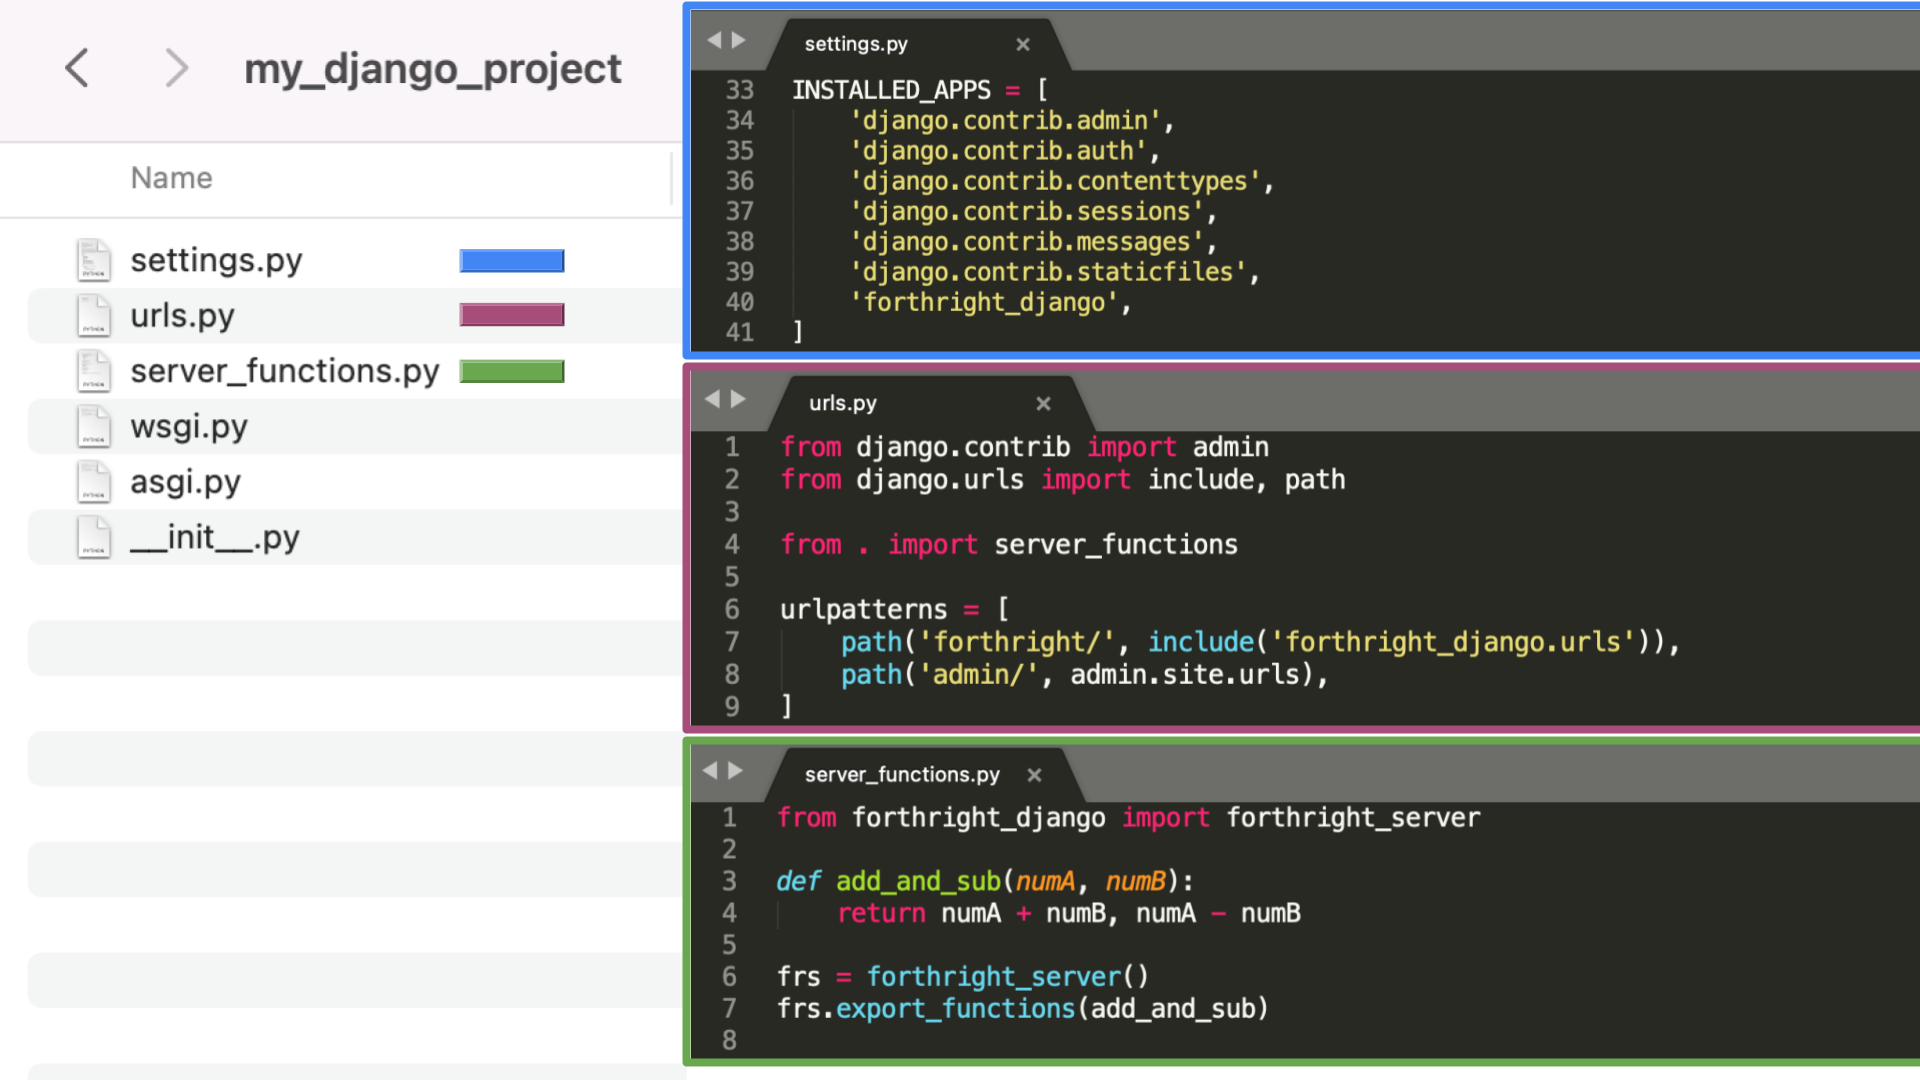
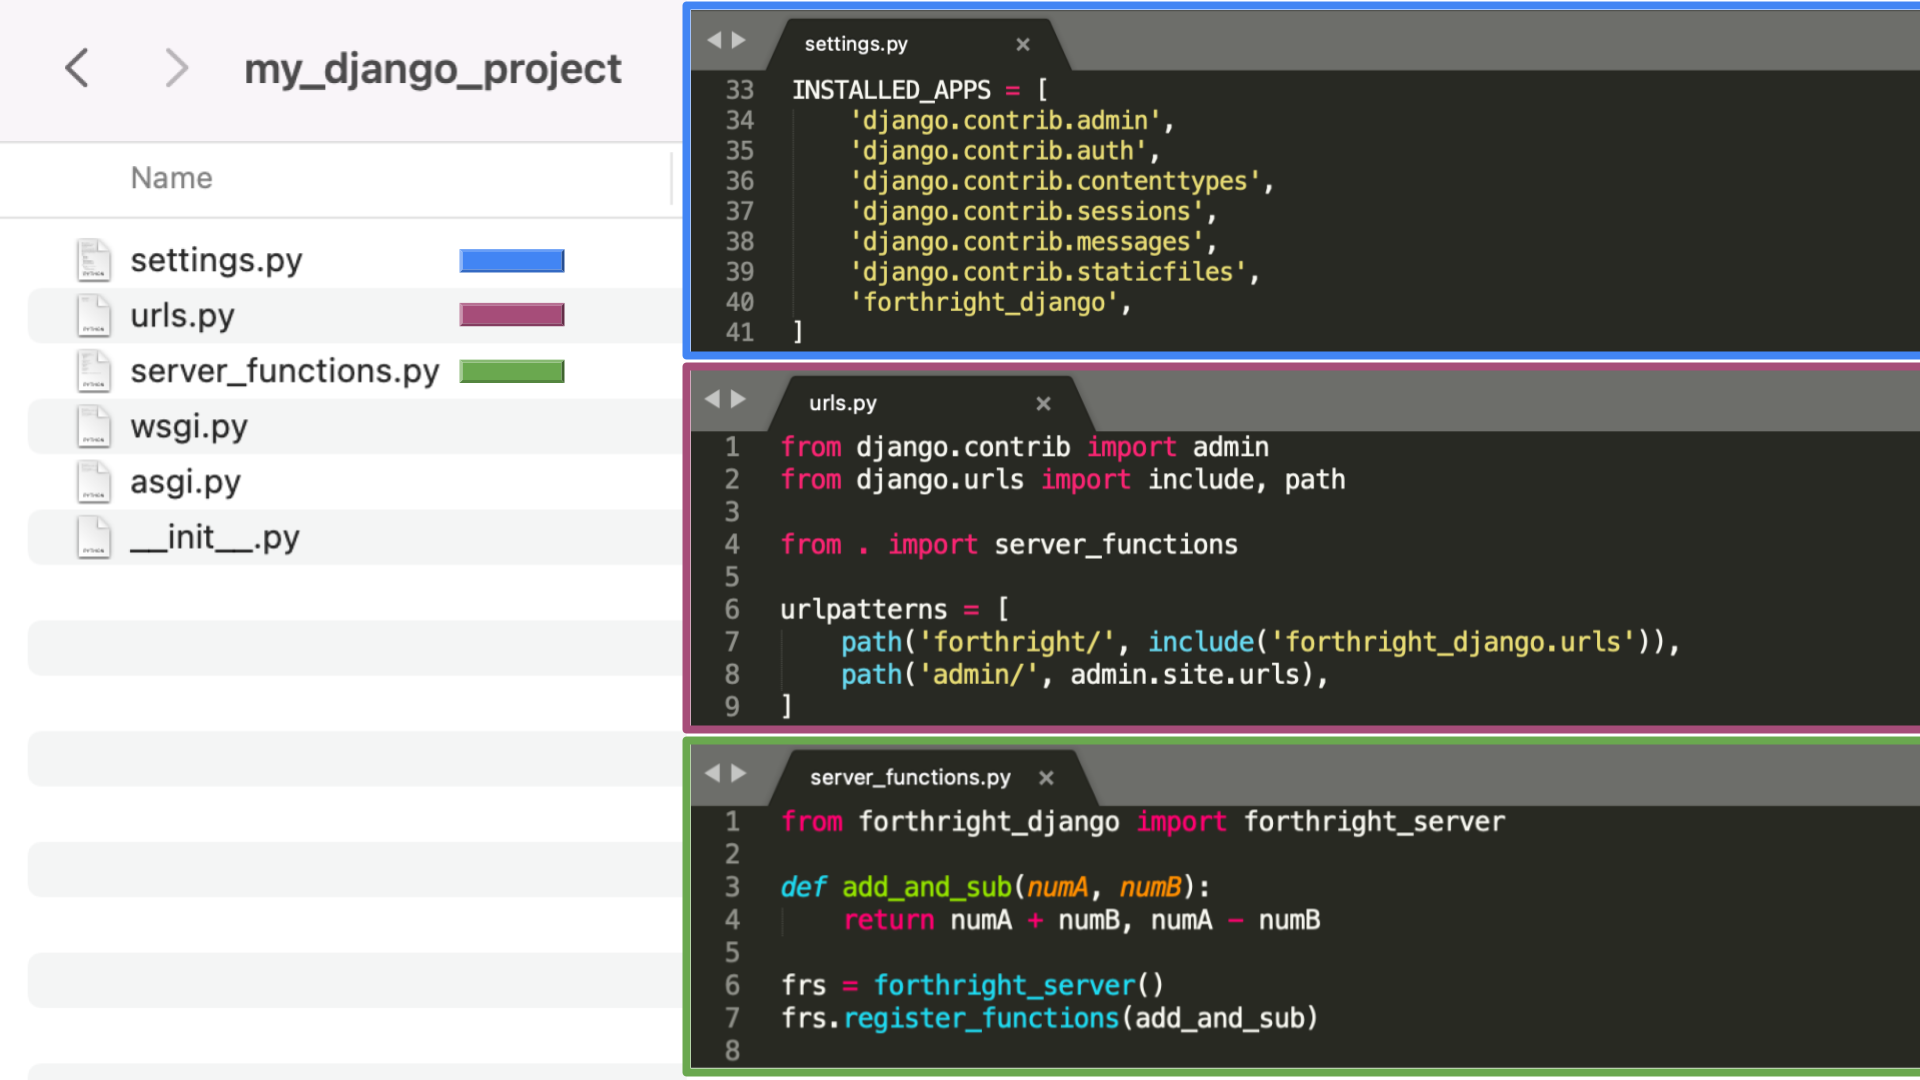
changed forthright_client to handle call to arbitrary function name

Changed region(s): [[0.3438, 0.6722, 1.0, 1.0]]

diff --git a/forthright_django/forthright_client.py b/forthright_django/forthright_client.py
@@ -105,52 +105,29 @@ def client_api_wrapper(url, safe_mode, caller_module_name, function_name, kwargs
 
     return return_values
 
-def remote_call_decorator(func):
-
-    @wraps(func)
-    def wrapper(url, safe_mode, caller_module_name, func_name, *args, **kwargs):
-        # pass kwargs as a dict
-        result = client_api_wrapper(url, safe_mode, caller_module_name, func_name, kwargs, *args)
-        return result
-
-    return wrapper
-
-@remote_call_decorator
-def placeholder_function(url, safe_mode, caller_module_name, func_name, *args, **kwargs):
-    pass
 
 
-
-
-
-class base_forthright_client:
-    def __init__(self, url, caller_module_name, class_ptr, safe_mode=False):
+class forthright_client:
+    def __init__(self, url, safe_mode=False):
         self.url = os.path.join(url, 'forthright/')
-        self.class_ptr = class_ptr
-        self.caller_module_name = caller_module_name
         self.safe_mode = safe_mode
 
-    def import_functions(self, *func_names):
-        for func_name in func_names:
-            named_placeholder_function = partial(placeholder_function, self.url, self.safe_mode, self.caller_module_name, func_name)
-            # Add function to class
-            setattr(self.class_ptr, func_name, named_placeholder_function)
+        # Get module name of caller
+        frame = inspect.stack()[1]
+        caller_module = inspect.getmodule(frame[0])
+        caller_module_name = caller_module.__name__
 
+        self.caller_module_name = caller_module_name
 
-def forthright_client(url, safe_mode=False):
+    # https://medium.com/@taraszhere/coding-remote-procedure-call-rpc-with-python-3b14a7d00ac8
+    # Call arbitrary function name
+    def __getattr__(self, __name: str):
 
-    # Get module name of caller
-    frame = inspect.stack()[1]
-    caller_module = inspect.getmodule(frame[0])
-    caller_module_name = caller_module.__name__
+        def execute(*args, **kwargs):
+            result = client_api_wrapper(self.url, self.safe_mode, self.caller_module_name, __name, kwargs, *args)
+            return result
 
-
-    # Create new class (because we want to add functions to this class with setattr but not add them to a different forthright_client object)
-    dynamic_class = type('forthright_client', (base_forthright_client,), {})
-    # Instantiate this new class into an object and return the object
-    forthright_client_obj = dynamic_class(url, caller_module_name, dynamic_class, safe_mode)
-
-    return forthright_client_obj
+        return execute
 
 
 

diff --git a/tests/client.py b/tests/client.py
@@ -12,7 +12,6 @@ b_safe_mode = False
 url = 'http://127.0.0.1:8000'
 
 frc = forthright_client(url, safe_mode=b_safe_mode)
-frc.import_functions('calculate_values', 'concat_words', 'increment_age', 'optional_input', 'send_back_same')
 
 
 # test1 -- mixed type input arguments and multiple outputs

diff --git a/tests/server_functions.py b/tests/server_functions.py
@@ -46,6 +46,6 @@ def send_back_same(arg):
 
 
 frs = forthright_server(safe_mode=False)
-frs.export_functions(calculate_values, concat_words, increment_age, optional_input, send_back_same)
+frs.register_functions(calculate_values, concat_words, increment_age, optional_input, send_back_same)
 
 

diff --git a/examples/client.py b/examples/client.py
@@ -3,7 +3,6 @@ from forthright_django import forthright_client
 url = 'http://127.0.0.1:8000'
 
 frc = forthright_client(url)
-frc.import_functions('add_and_sub')
 
 sum, diff = frc.add_and_sub(8, 2)
 print('%d %d' %(sum, diff)) # -> 10 6

diff --git a/forthright_django/forthright_server.py b/forthright_django/forthright_server.py
@@ -103,7 +103,7 @@ class forthright_server:
         g_caller_module_name = module_name
 
 
-    def export_functions(self, *funcs):
+    def register_functions(self, *funcs):
 
         global g_exported_functions_dict
 

diff --git a/examples/server_functions.py b/examples/server_functions.py
@@ -4,6 +4,6 @@ def add_and_sub(numA, numB):
     return numA + numB, numA - numB
 
 frs = forthright_server()
-frs.export_functions(add_and_sub)
+frs.register_functions(add_and_sub)
 
 

diff --git a/forthright_django/__init__.py b/forthright_django/__init__.py
@@ -1,5 +1,5 @@
 
-package_version = '0.0.5'
+package_version = '0.0.6'
 __version__ = package_version
 
 # Import submodules
